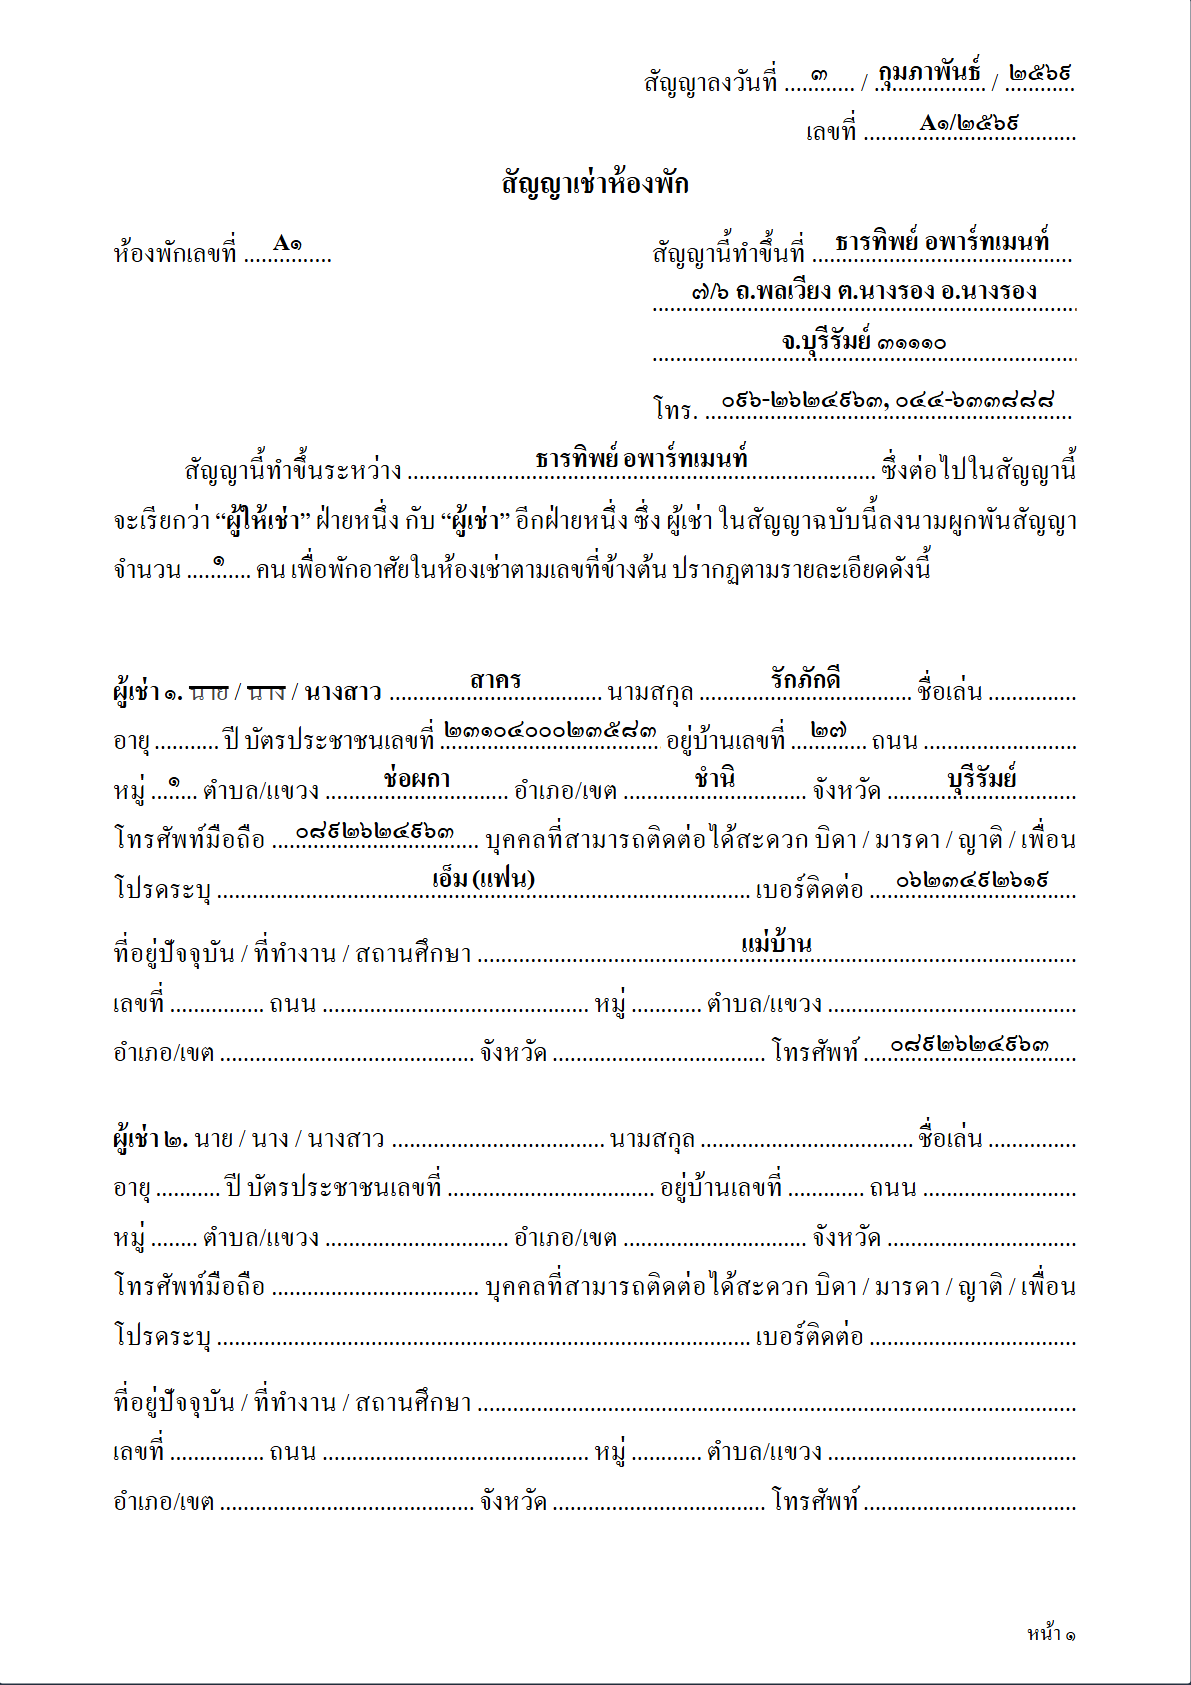
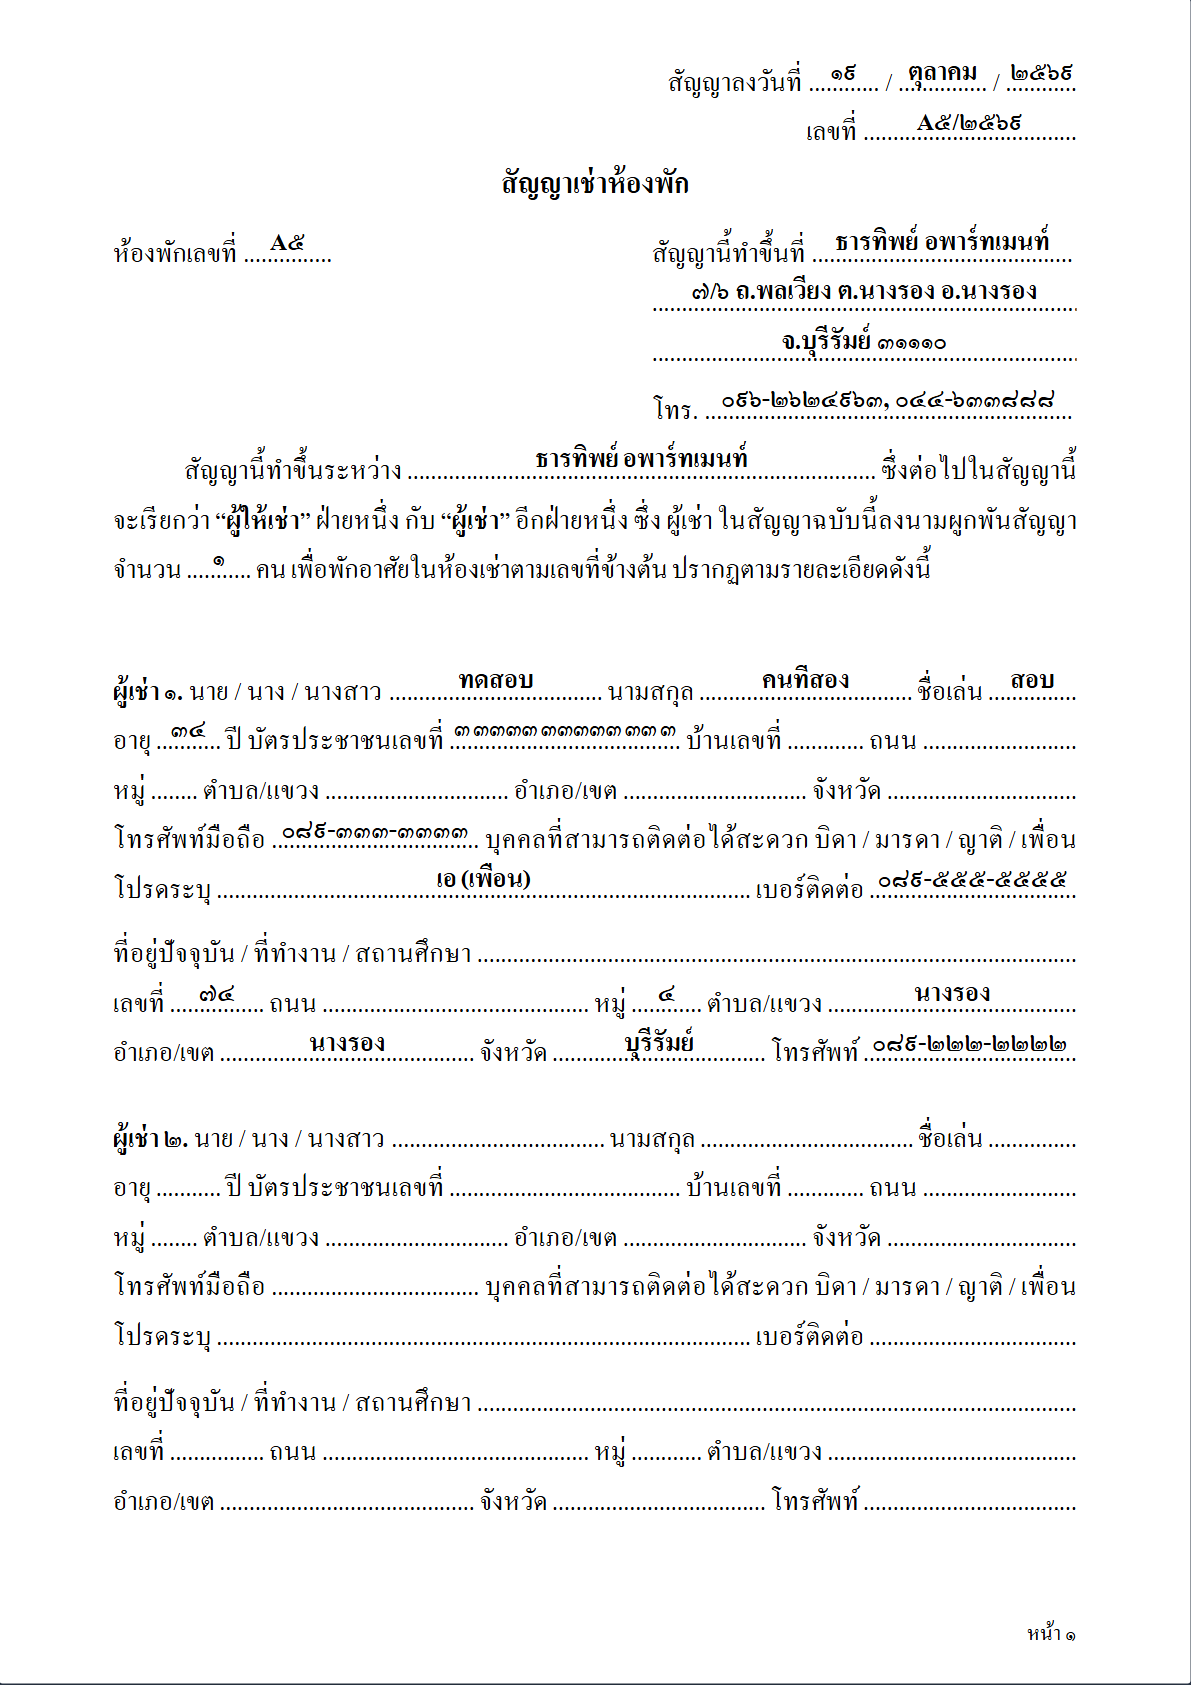
fix(lease-modal): change 'อยู่บ้านเลขที่' to 'บ้านเลขที่' and expand id card dots to prevent overlap

diff --git a/src/components/modals/LeaseAgreementModal.tsx b/src/components/modals/LeaseAgreementModal.tsx
@@ -443,7 +443,7 @@ export default function LeaseAgreementModal({
         <strong>ผู้เช่า {num(no)}.</strong> {prefixNode}<BlankFill value={d.first} dots={36} /> นามสกุล <BlankFill value={d.last} dots={36} /> ชื่อเล่น <BlankFill value={d.nick} dots={15} />
       </div>
       <div className={styles.formRow}>
-        อายุ <BlankFill value={num(d.age)} dots={11} /> ปี บัตรประชาชนเลขที่ <BlankFill value={num(d.idCard)} dots={35} textClassName={styles.idCardBlankText} /> อยู่บ้านเลขที่ <BlankFill value={num(d.addr.houseNo)} dots={13} /> ถนน <BlankFill value={d.addr.road} dots={26} />
+        อายุ <BlankFill value={num(d.age)} dots={11} /> ปี บัตรประชาชนเลขที่ <BlankFill value={num(d.idCard)} dots={39} textClassName={styles.idCardBlankText} /> บ้านเลขที่ <BlankFill value={num(d.addr.houseNo)} dots={13} /> ถนน <BlankFill value={d.addr.road} dots={26} />
       </div>
       <div className={styles.formRow}>
         หมู่ <BlankFill value={num(d.addr.moo)} dots={8} /> ตำบล/แขวง <BlankFill value={d.addr.subdistrict} dots={31} /> อำเภอ/เขต <BlankFill value={d.addr.district} dots={31} /> จังหวัด <BlankFill value={d.addr.province} dots={32} />
